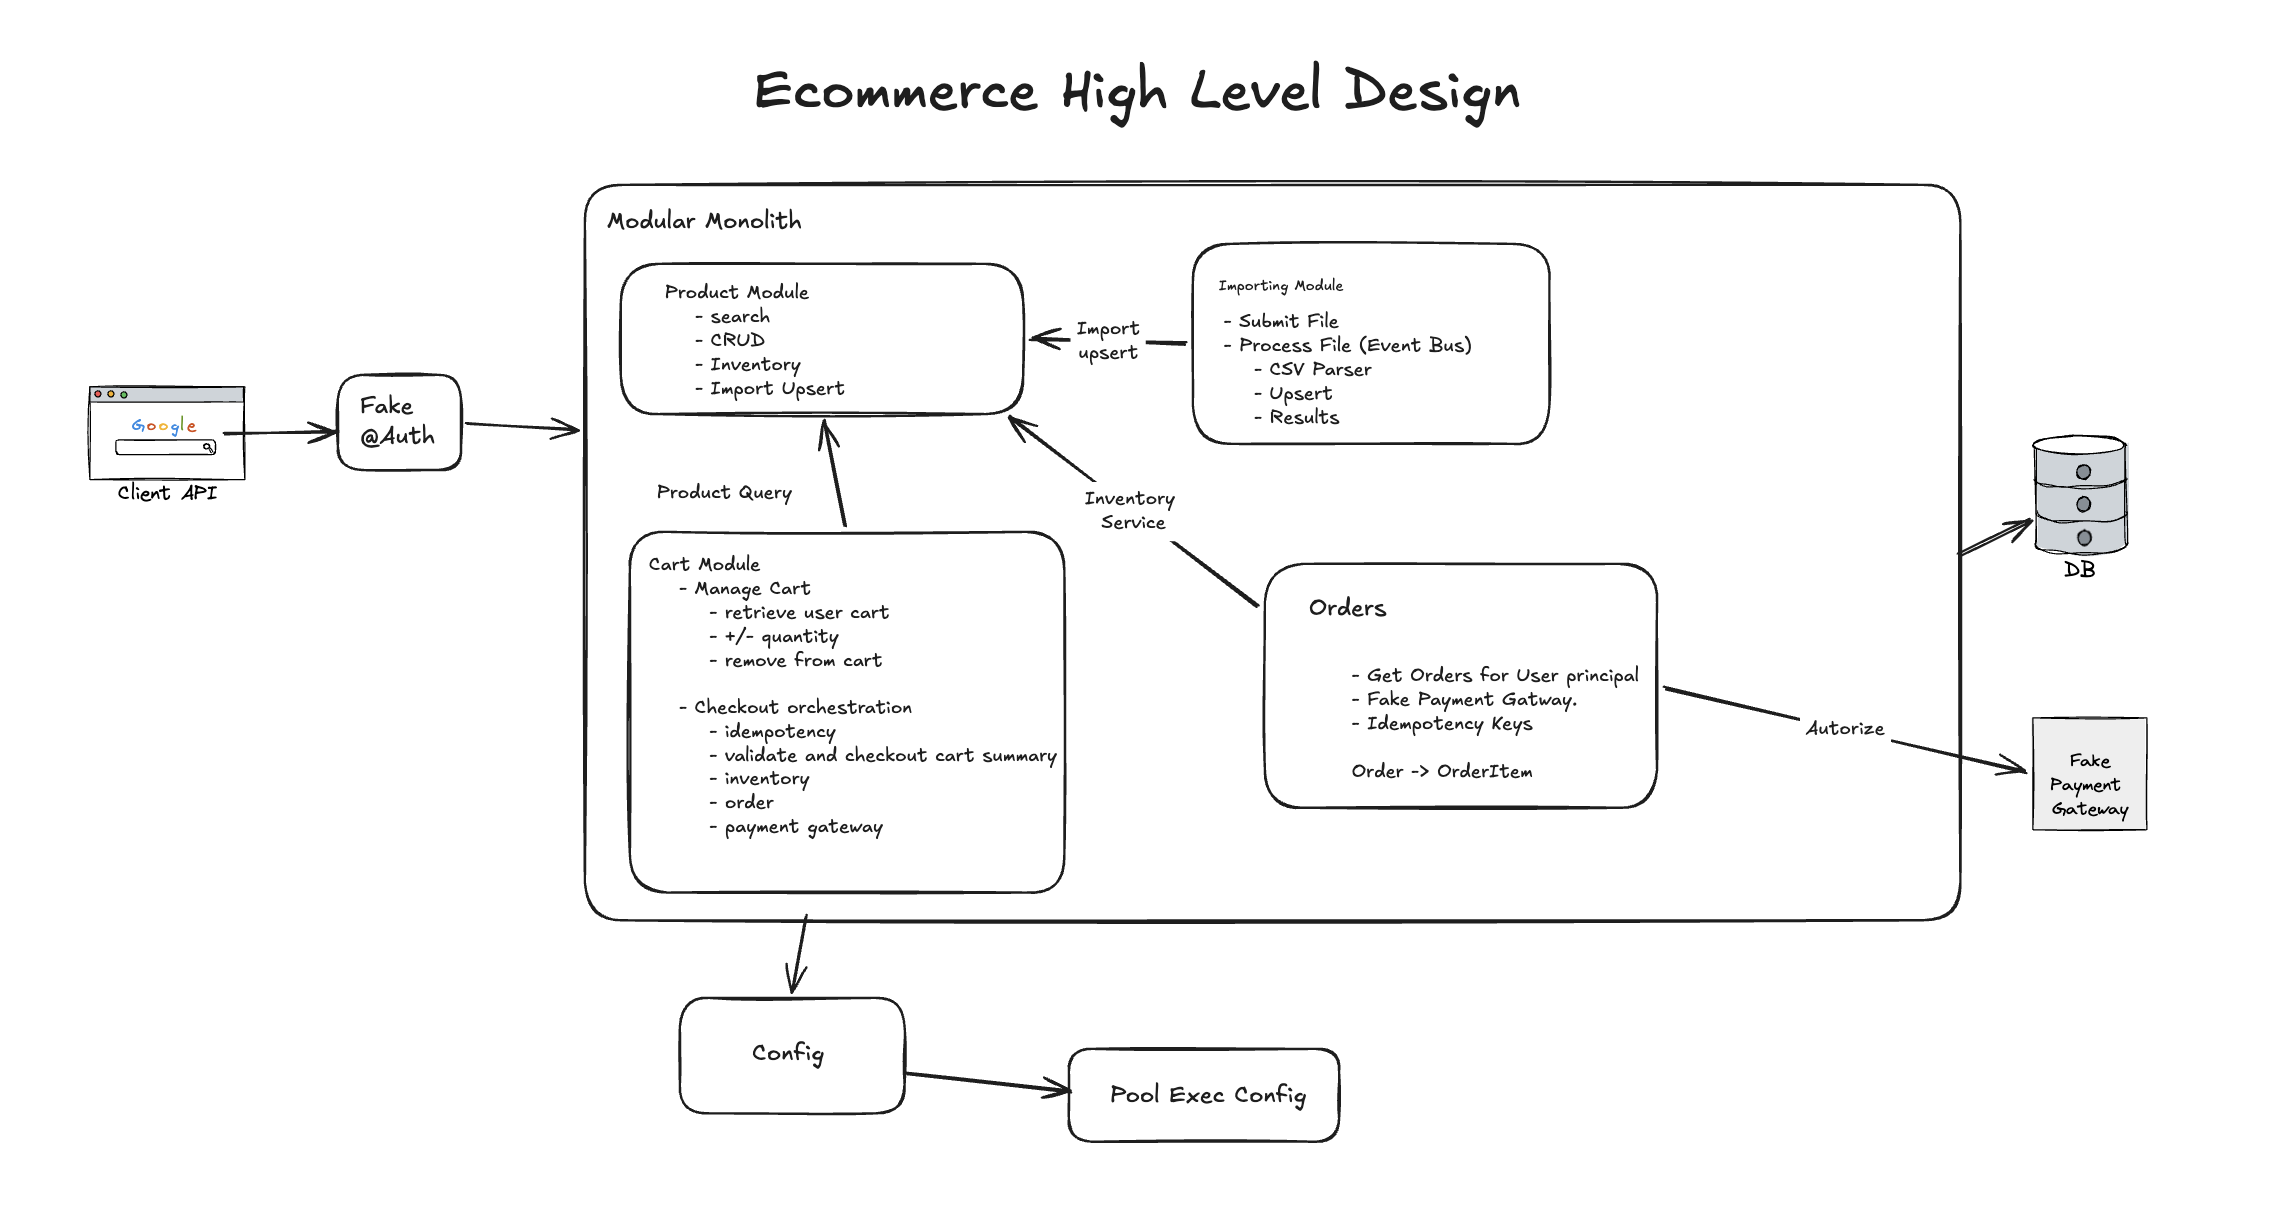
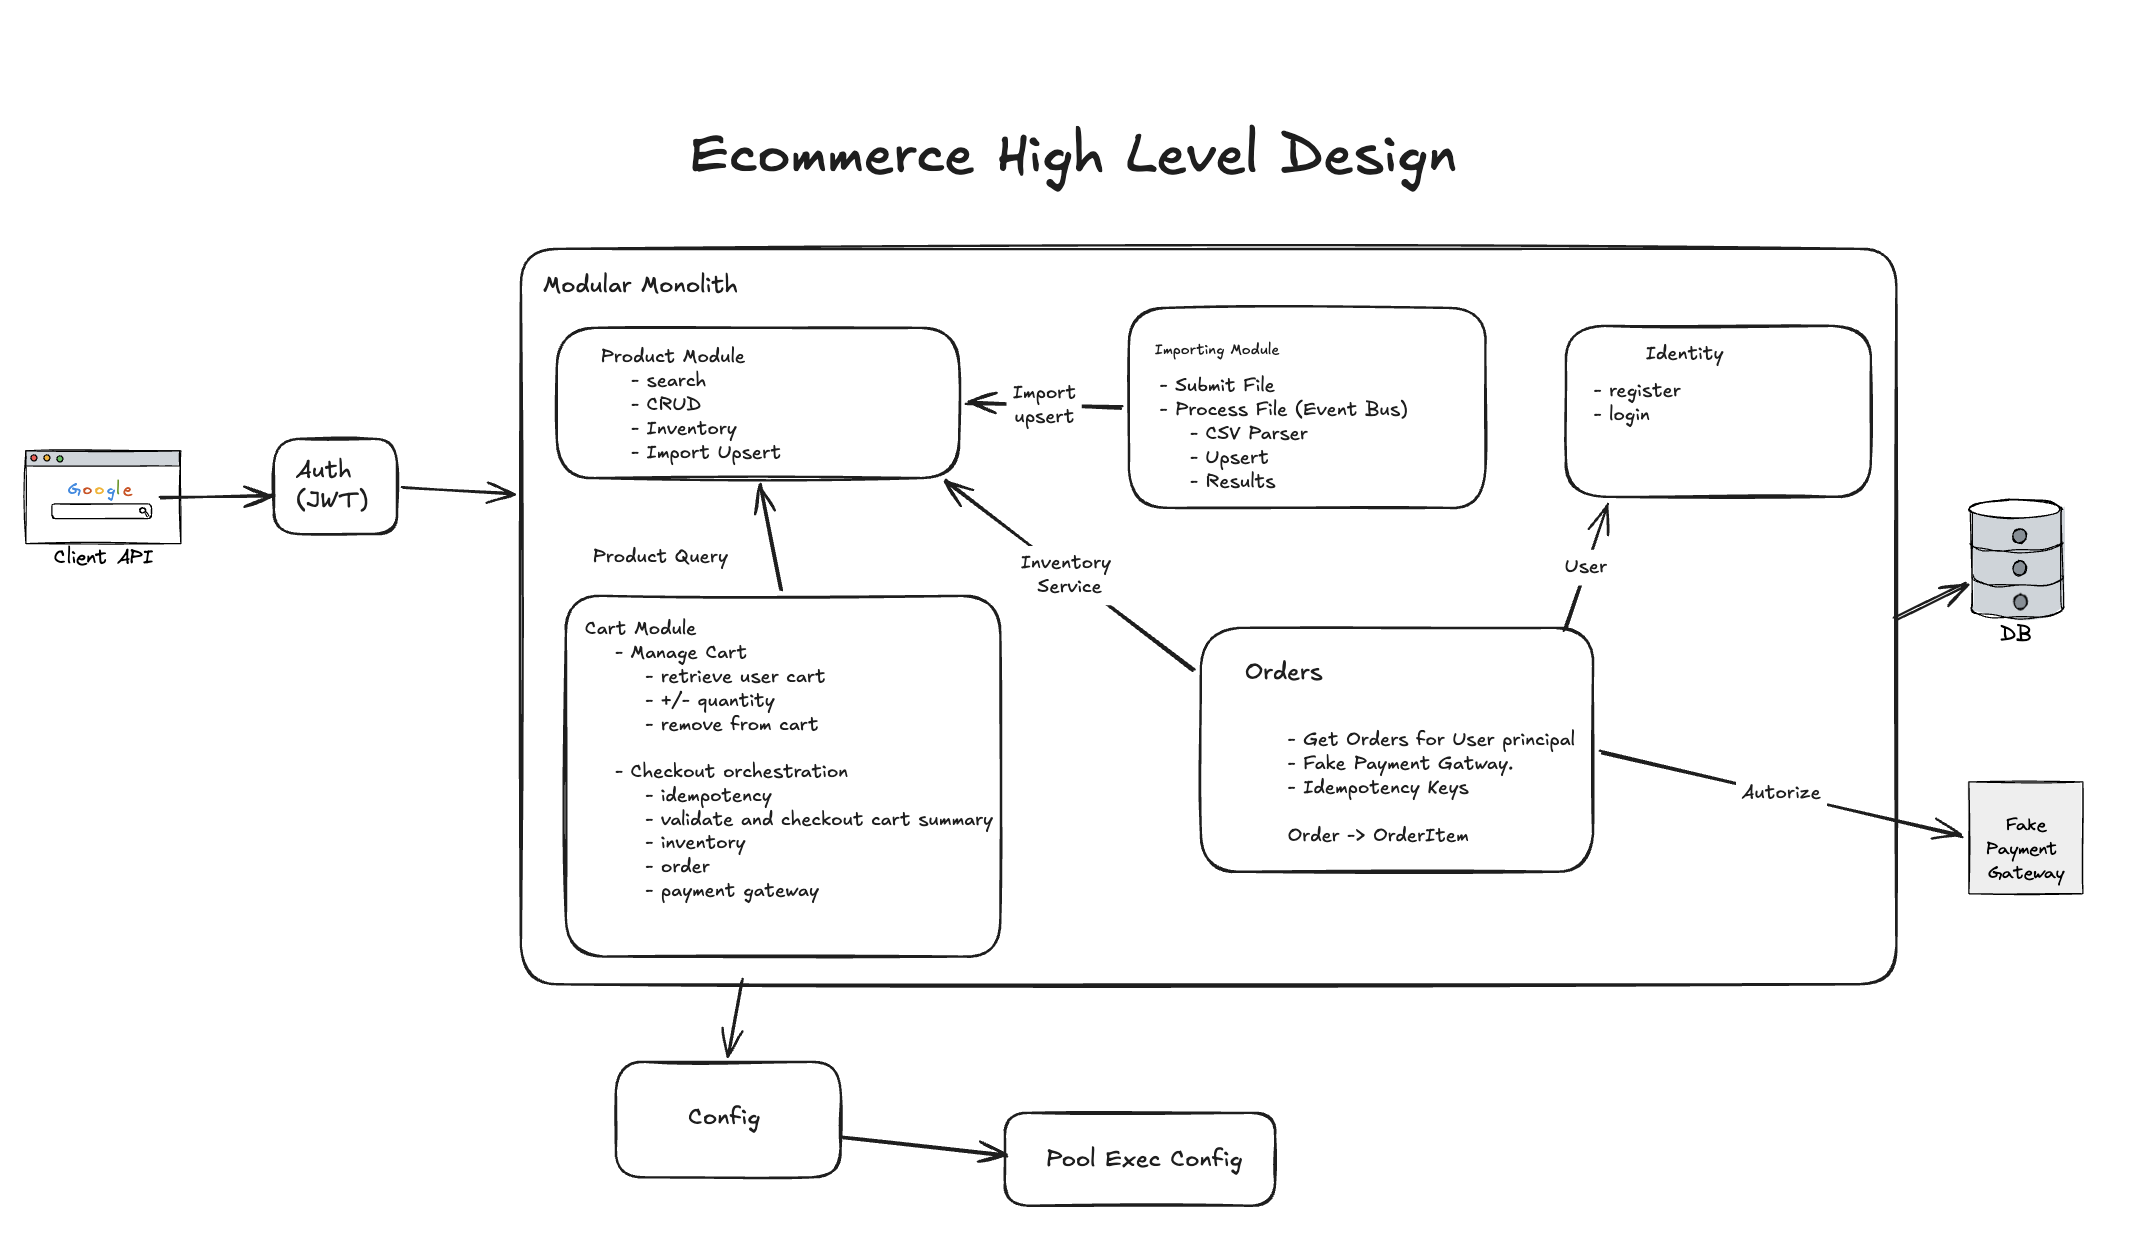
docs: introduce auth in design

diff --git a/Architecture.md b/Architecture.md
@@ -57,7 +57,7 @@
     
     - Cart
         - id
-        - userId
+        - userId (fk)
         - cartStatus: [ACTIVE, CHECKOUT]
         - createdAt
         - updatedAt
@@ -78,6 +78,7 @@
         - paymentReference
         - createdReference
         - idempotency key (prevent dup checkouts)
+        - Address
         - orderItems (OrderItems):
             - id
             - orderId(fk)
@@ -88,8 +89,21 @@
             - quantity
             - lineTotal
     
-    - @Auth (simulated at for now harcoded userId)
-        - demoPrincipalUserId -> fixed Id ( in a real system we will use a UserPrincipal details for this.)
+    - User
+        - id
+        - email
+        - enabled
+        - Address
+        - createdAt
+        - updatedAt
+        - roles: [userRoles]
+
+    - UserRoles
+        - Role
+        - user_id(FK)
+    
+    - @Auth simple (JWT Access_token) 
+        - principalUserId -> userId from JWT subject
 
 ### Database Contraints
 ```
@@ -110,6 +124,7 @@ orders.cart_id
     - Money
     - Sku
     - ProductCategory
+    - Address
 
 ## API DESIGN -> **/api/v1/**
 
@@ -117,29 +132,33 @@ orders.cart_id
 ### Products:
 
 ```
-GET /products?q={name}&category={category}&limit={20}&cursor={nextCursor=base64(lastname|lastproductId)} | search products
+Public Endpoints: 
 
-POST /products
-body: CreateProduct | Create a product request
+GET /products?q={name}&category={category}&limit={20}&cursor={nextCursor=base64(lastname|lastproductId)} | search products
 
 GET /products/{productId} | Get an active product
 
-PUT /products/{productId} 
-body: UpdateProduct | update product request
-
-DELETE /products/{productId} Soft-delete a product
-
 GET /categories — List active categories
+
+Admin Ops
+
+POST /products
+body: CreateProduct | Create a product request | Role=Admin
+
+PUT /products/{productId} 
+body: UpdateProduct | update product request | Role=Admin
+
+DELETE /products/{productId} Soft-delete a product | Role=Admin
 
 ```
 
 ### Product Import:
 
 ```
-POST /product-imports — Submit one multipart CSV
+POST /product-imports — Submit one multipart CSV | Role=Admin
 Body: CSV File
 
-GET /product-imports/{importId} — Import status, counts, and rejected rows etc..
+GET /product-imports/{importId} — Import status, counts, and rejected rows etc.. | Role=Admin
 
 ```
 
@@ -147,18 +166,18 @@ GET /product-imports/{importId} — Import status, counts, and rejected rows etc
 ```
 @Auth -> userId
 
-POST /carts — Create or retrieve the demo user active cart
+POST /carts — Create or retrieve the demo user active cart | Role=Customer
 
-GET /carts/{cartId} — Get the current cart and product details
+GET /carts/{cartId} — Get the current cart and product details | Role=Customer
 
-PUT /carts/{cartId}/items/{productId} 
+PUT /carts/{cartId}/items/{productId} | Role=Customer
 Body: UpdateCartItem -> {"quantity":10}
 — set a quantity for product
 
-DELETE /carts/{cartId}/items/{productId} — Remove an item from the cart
+DELETE /carts/{cartId}/items/{productId} — Remove an item from the cart | Role=Customer
 
 
-POST /carts/{cartId}/checkout — 
+POST /carts/{cartId}/checkout —  | Role=Customer
 Header: Idempotency-Key -> generated by client to prevent
 double checkouts with the same items.
 
@@ -171,9 +190,9 @@ shipping or more logistic details etc...
 ```
 @Auth -> userId
 
-GET /orders/{orderId} — Get Order By id
+GET /orders/{orderId} — Get Order By id | Role=Customer
 
-GET /orders — List of Orders on user
+GET /orders — List of Orders on user | Role=Customer
 
 ```
 
@@ -248,15 +267,21 @@ ideally you should notify of a product price change, we just handle the case if 
 Cursor Pagination.
     - I have decided to use a simple cursor pagination to avoid loading all product at once.
 
+
+## Authentication:
+
+- For simplicty we have an intial admin with defaults creds to show admin panels(product and imports)
+- Customer could read catalog but to initiate a purchase login is required. typically you will need to handle local cart and then reconciliate with backend for simplicity, I will make login required and let backend handle cart state.
+- When Register User are required to add address this will be the default shipping address. User could update shipping address but for simplicity this is not added here. 
+- For now same Form is used for Login Admin and Customer users. 
+
 ### Front End
 - routes.ts: holds routes for spa
 - services: http service to ecommerce-api
 - hooks: reusable component for product import (submit, polling(2000ms)) and product (Categories, Pagination etc..)
 - pages: Main Pages for spa
-- Cart context: Manage Cart Operations in a context to preserve them(local storage).
-- components: re-usable components for the pages.
-
-
+- Cart context: Manage Cart Operations in a context to preserve them(local storage). Auth (Context) manage auth related operations login, register, isAuthenticated, and role. Right now Auth details are storaged in local storage for prod, use http cookie or in memory.
+- components: re-usable components for the pages (product, auth, order).
 
 
 # How to Run the project locally
@@ -265,6 +290,15 @@ Cursor Pagination.
 **ROOT:**
 - ecommerce-api
         - Spring boot App:
+            - module domain:
+                - output, domain, services, repository
+            - config:
+                - security
+                - Pools
+            - shared:
+                - exceptions
+                - valueObjects
+
             - JPA, H2 or Postgress, Hibernate, JAVA 21, Spring boot 4.1.
         - DockerFile
 - ecommerce-client:
